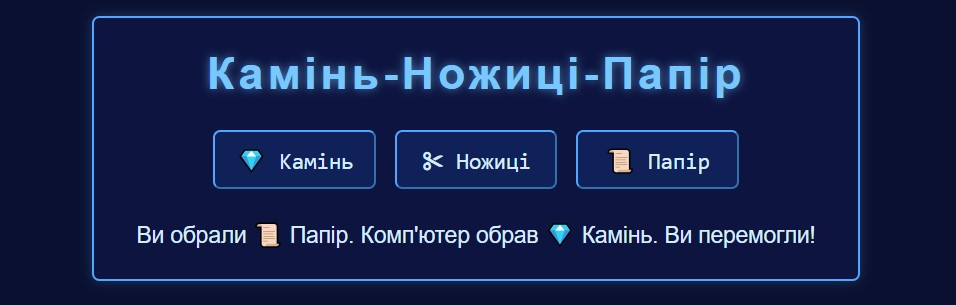
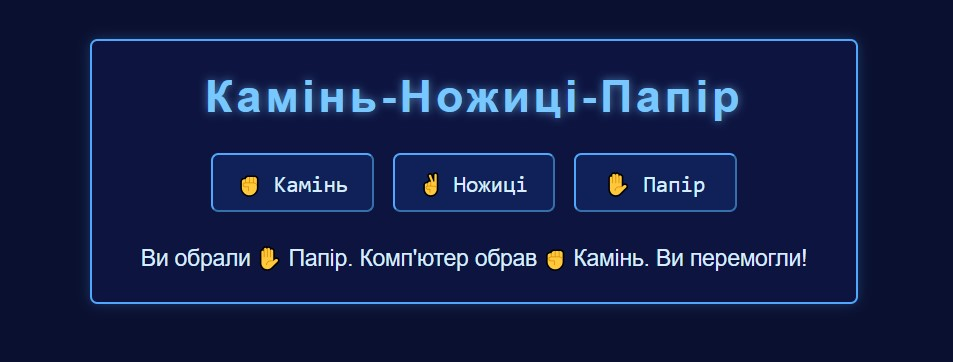
.

Changed region(s): [[0.0913, 0.0295, 0.9129, 0.9443], [0.213, 0.4131, 0.7912, 0.6197], [0.213, 0.177, 0.7912, 0.3541]]

diff --git a/test1.html b/test1.html
@@ -95,9 +95,9 @@
                   <li>
                     Створити масив можливих варіантів гри:
                     <ul>
-                      <li>💎 Камінь</li>
-                      <li>✂ Ножиці</li>
-                      <li>📜 Папір</li>
+                      <li>✊ Камінь</li>
+                      <li>✌ Ножиці</li>
+                      <li>✋ Папір</li>
                     </ul>
                   </li>
 
@@ -163,7 +163,7 @@
             <pre><code>функція play(вибір користувача) 
 {
   // 1. Створити масив можливих варіантів:
-  варіанти = ["💎 Камінь", "✂ Ножиці", "📜 Папір"]
+  варіанти = ["✊ Камінь", "✌ Ножиці", "✋ Папір"]
 
   // 2. Випадково обрати варіант комп’ютера:
   //    - згенерувати випадкове число від 0 до 2 
@@ -181,11 +181,11 @@
   
   інакше якщо 
   (
-    (користувач обрав "💎 Камінь" ТА комп'ютер обрав "✂ Ножиці")
+    (користувач обрав "✊ Камінь" ТА комп'ютер обрав "✌ Ножиці")
     АБО
-    (користувач обрав "✂ Ножиці" ТА комп'ютер обрав "📜 Папір") 
+    (користувач обрав "✌ Ножиці" ТА комп'ютер обрав "✋ Папір") 
     АБО
-    (користувач обрав "📜 Папір" ТА комп'ютер обрав "💎 Камінь")
+    (користувач обрав "✋ Папір" ТА комп'ютер обрав "✊ Камінь")
   ) 
   {
     додати до результату текст " Ви перемогли!";
@@ -201,11 +201,11 @@
 }
 
 // 6. Додати обробники кнопок:
-взяти елемент з id="rock" і додати event listener "click", який викликає play("💎 Камінь")
+взяти елемент з id="rock" і додати event listener "click", який викликає play("✊ Камінь")
 
-взяти елемент з id="scissors" і додати event listener "click", що викликає play("✂ Ножиці")
+взяти елемент з id="scissors" і додати event listener "click", що викликає play("✌ Ножиці")
 
-взяти елемент з id="paper" і додати event listener "click", який викликає play("📜 Папір")</code></pre>
+взяти елемент з id="paper" і додати event listener "click", який викликає play("✋ Папір")</code></pre>
           </div>
         </div>
       </section>

diff --git a/rock-paper-scissors.html b/rock-paper-scissors.html
@@ -96,9 +96,9 @@
 
       <!-- Кнопки з вибором гравця -->
       <div>
-        <button id="rock">💎 Камінь</button>
-        <button id="scissors">✂ Ножиці</button>
-        <button id="paper">📜 Папір</button>
+        <button id="rock">✊ Камінь</button>
+        <button id="scissors">✌ Ножиці</button>
+        <button id="paper">✋ Папір</button>
       </div>
 
       <!-- Виведення результату -->
@@ -110,7 +110,7 @@
 
       function play(playerChoice) {
         // Масив доступних варіантів
-        const choices = ["💎 Камінь", "✂ Ножиці", "📜 Папір"];
+        const choices = ["✊ Камінь", "✌ Ножиці", "✋ Папір"];
 
         // Випадковий вибір комп'ютера
         const computerChoice = choices[Math.floor(Math.random() * 3)];
@@ -122,9 +122,9 @@
         if (playerChoice === computerChoice) {
           result += "Нічия!";
         } else if (
-          (playerChoice === "💎 Камінь" && computerChoice === "✂ Ножиці") ||
-          (playerChoice === "✂ Ножиці" && computerChoice === "📜 Папір") ||
-          (playerChoice === "📜 Папір" && computerChoice === "💎 Камінь")
+          (playerChoice === "✊ Камінь" && computerChoice === "✌ Ножиці") ||
+          (playerChoice === "✌ Ножиці" && computerChoice === "✋ Папір") ||
+          (playerChoice === "✋ Папір" && computerChoice === "✊ Камінь")
         ) {
           result += "Ви перемогли!";
         } else {
@@ -135,9 +135,15 @@
         document.getElementById("message").innerText = result;
       }
 
-      document.getElementById("rock").addEventListener("click", () => play("💎 Камінь"));
-      document.getElementById("scissors").addEventListener("click", () => play("✂ Ножиці"));
-      document.getElementById("paper").addEventListener("click", () => play("📜 Папір"));
+      document
+        .getElementById("rock")
+        .addEventListener("click", () => play("✊ Камінь"));
+      document
+        .getElementById("scissors")
+        .addEventListener("click", () => play("✌ Ножиці"));
+      document
+        .getElementById("paper")
+        .addEventListener("click", () => play("✋ Папір"));
     </script>
   </body>
 </html>
